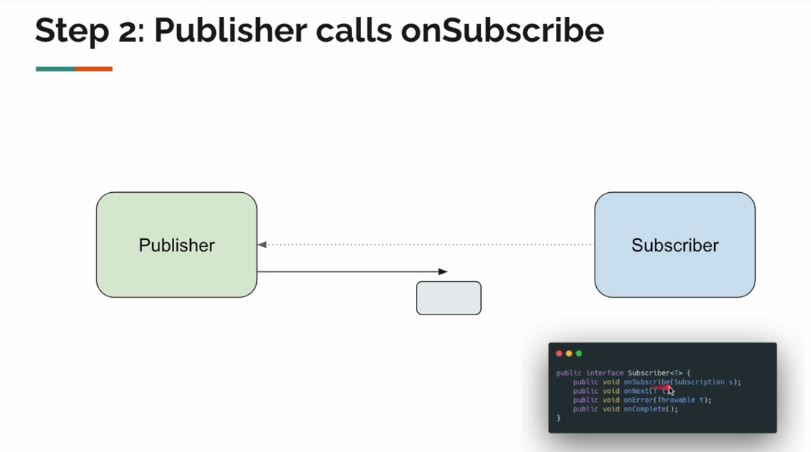
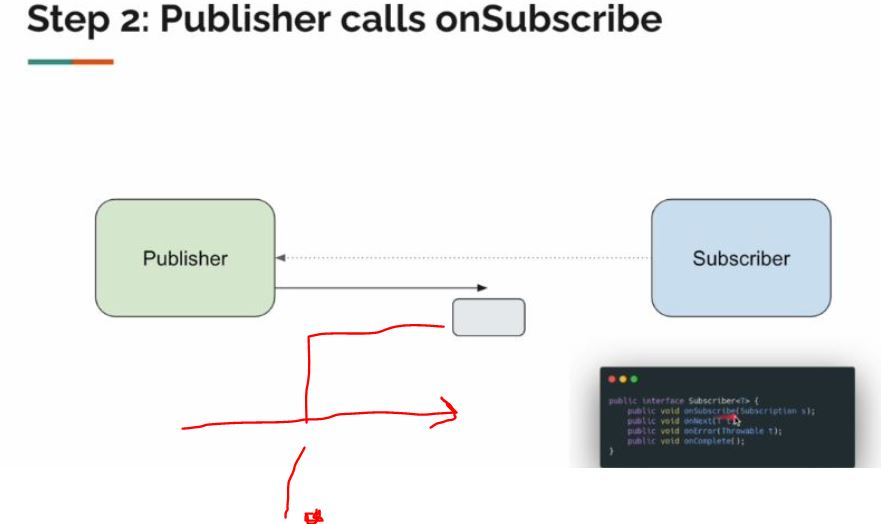
proceeded

diff --git a/README.md b/README.md
@@ -69,7 +69,7 @@ Linkedin puts this shit front, when clicking from private mode x(. Need to put t
 - [ ] Remove numbers from packages and from lecture notes `.md` if there is.
 
 <p align="center">
-    <img id="Build Reactive MicroServices using Spring WebFluxSpringBoot" src="Build Reactive MicroServices using Spring WebFluxSpringBoot caption.png" style="width:1000px;height:80px;">
+    <img id="Build Reactive MicroServices using Spring WebFluxSpringBoot" src="Build Reactive MicroServices using Spring WebFluxSpringBoot caption.png" style="width:1000px;height:90px;">
 </p>
 
 ![Build Reactive MicroServices using Spring WebFlux/SpringBoot](Build%20Reactive%20MicroServices%20using%20Spring%20WebFluxSpringBoot%20caption%20description.PNG)
@@ -196,7 +196,7 @@ Linkedin puts this shit front, when clicking from private mode x(. Need to put t
 
 #### Additional stuff.
 
-- [ ] Remove numbers from packages(from projects and transfer to IntelliJ).
+- [ ] Remove numbers from packages (from projects and transfer to IntelliJ).
 - [ ] Do the io model chapter for simplicity’s sake.
 - [ ] You can check the [Virtaul Thread](https://www.udemy.com/course/java-virtual-thread/) vs reactive programming.
 
@@ -232,21 +232,24 @@ Linkedin puts this shit front, when clicking from private mode x(. Need to put t
 
 #### Progress/Curriculum.
 
-- [ ] [Section 01](#) -
-- [ ] [Section 02](#) -
-- [ ] [Section 03](#) -
-- [ ] [Section 04](#) -
+
+# Course Outline
+
+- [ ] [Section 01](#) - Introduction.
+- [ ] [Section 02](#) - Traditional vs Reactive APIs.
+- [ ] [Section 03](#) - Spring Data R2DBC.
+- [ ] [Section 04](#) - R2DBC vs JPA/JDBC.
 - [ ] [Section 05](https://github.com/developersCradle/reactive-programming/tree/main/Spring%20WebFlux%20Masterclass%20Reactive%20Microservices/Section%2005#section-05-reactive-crud-apis) - Reactive CRUD APIs.
 - [ ] [Section 06](#) - Input Validation / Error Handling.
-- [ ] [Section 07](#) -
-- [ ] [Section 08](#) -
-- [ ] [Section 09](#) - 
-- [ ] [Section 10](#) -
-- [ ] [Section 11](#) -
-- [ ] [Section 12](#) -
-- [ ] [Section 13](#) -
-- [ ] [Section 14](#) -
-- [ ] [Section 15](#) -
+- [ ] [Section 07](#) - WebFilter.
+- [ ] [Section 08](#) - Functional Endpoints.
+- [ ] [Section 09](#) - WebClient - Non-Blocking HTTP Client.
+- [ ] [Section 10](#) - Streaming.
+- [ ] [Section 11](#) - Server Sent Events / SSE.
+- [ ] [Section 12](#) - Performance Optimization.
+- [ ] [Section 13](#) - Final Project - Reactive Microservices.
+- [ ] [Section 14](#) - What's Next?
+- [ ] [Section 15](#) - Bonus Section / Articles.
 
 #### Additional stuff.
 

diff --git a/Mastering Java Reactive Programming From Scratch/Section 01/README.md b/Mastering Java Reactive Programming From Scratch/Section 01/README.md
@@ -246,13 +246,21 @@ Flux<Message> chat(Flux<Message> incoming) { ... }
 - Just **Observer** and **React** for changes.
     - This in big picture.
 
-- Todo jatka tästä.
-
+- Here will be the example if the, why we would need the **Reactive Programming**.
 
 <div align="center">
     <img src="exampleOfExplainingTheRequestAndResponse.JPG" alt="reactive programming" width="400"/>
 </div>
 
+1. We need service to call service.
+2. There will be the following **business logic**
+
+<div align="center">
+    <img src="exelHasGoodExampleForTheReactiveness.JPG" alt="reactive programming" width="400"/>
+</div>
+
+1. The **Exel** cells **reacts** to the others cells!
+    - This is same kind of reactiveness comes from **Reactive Programming**.
 
 <div align="center">
     <img src="reactiveStreamSpesification.PNG" alt="reactive programming" width="700"/>
@@ -301,19 +309,24 @@ Flux<Message> chat(Flux<Message> incoming) { ... }
 
 # [THEORY] - Publisher/Subscriber Communication - Step By Step.
 
-# This concept is very important!
+> [!IMPORTANT]  
+> This concept is very important!
 
 <div align="center">
     <img src="publisherAndSubscriber.JPG" alt="reactive programming" width="700"/>
 </div>
 
-1. There is **two** instances!  ***Subscriber** wants updates from **Publisher**. 
+1. There is **two** instances!
+    - **Subscriber**. 
+    - **Publisher**. 
+2. The **Subscriber** will be passed to the **Publisher**.
 
 <div align="center">
     <img src="publisherAndSubscriber2.JPG" alt="reactive programming" width="700"/>
 </div>
 
-1. When **publisher** accepts the **Subscriber** object, it handles the **publisher** object to the **Subscriber**.
+1. When **Publisher** **accepts** the **Subscriber** object, it handles the **Subscription object** to the **Subscriber**.
+    - We are giving the Subscription object to the Subscriber via the `onSubscribe()` method.
 
 <div align="center">
     <img src="publisherAndSubscriber3.JPG" alt="reactive programming" width="700"/>
@@ -324,7 +337,6 @@ Flux<Message> chat(Flux<Message> incoming) { ... }
 <div align="center">
     <img src="publisherAndSubscriber4.JPG" alt="reactive programming" width="700"/>
 </div>
-
 
 1. Using **Subscription** object **Subscriber** gets items one by one to the **Subscriber**.
     - It will give only the **request amount** or less.
